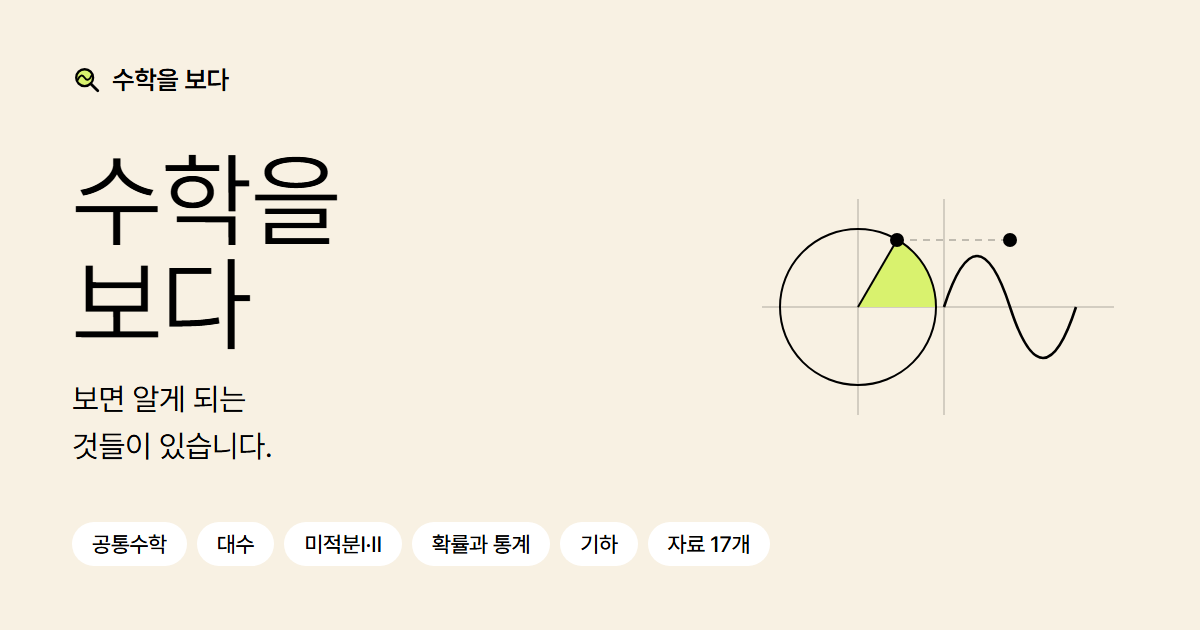
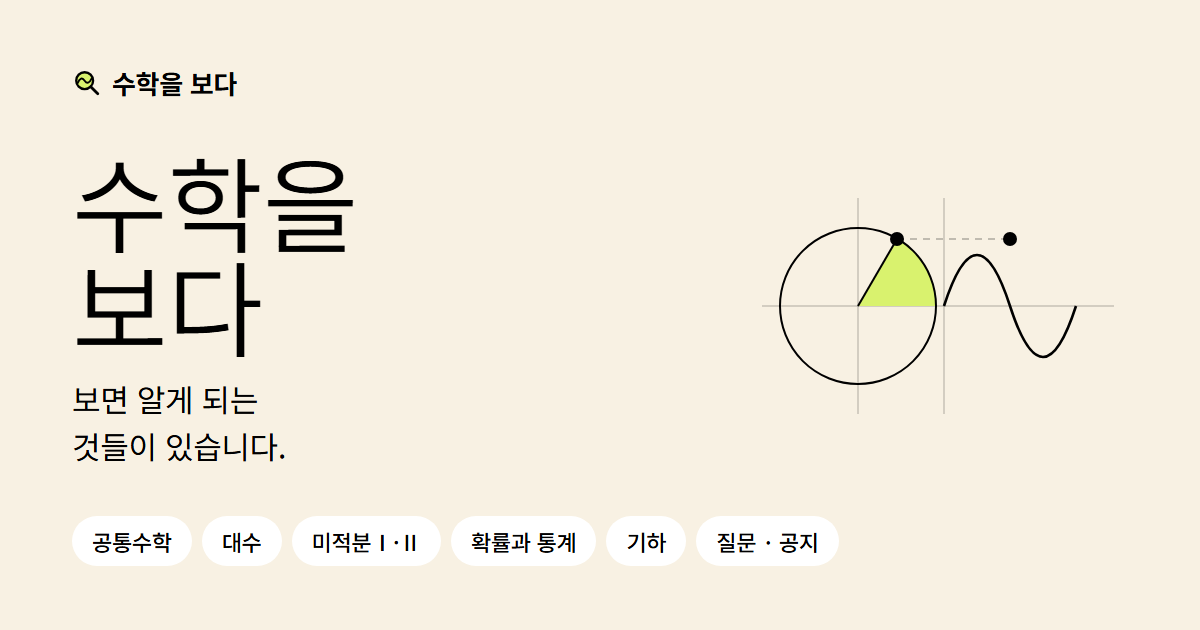
자료 개수를 손으로 적지 않고 세어서 쓰게 함
'자료 17개' 가 네 곳에 박혀 있었는데 실제로는 23개였다. 카톡으로 링크를
보내면 미리보기에 17개라고 떴다.

미리보기·검색 글귀(meta)와 og.png 는 원본을 그대로 읽어 가거나 그림으로
구워지는 것이라 자바스크립트로 못 고친다. 자료를 늘릴 때마다 손으로
고쳐야 하는 구조라 결국 또 어긋난다 — 그래서 숫자를 아예 뺐다.

대신 개수가 실제로 쓸모 있는 자리('직접 보는 수학' 페이지)에 DEMOS 를
세어 '모두 23개' 로 띄운다. 이제 자료를 늘리면 저절로 따라 바뀐다.

og.png 도 다시 구웠다 (마지막 딱지: '자료 17개' → '질문 · 공지').

diff --git a/library.html b/library.html
@@ -7,13 +7,16 @@
      검게 바뀌는 깜빡임이 없습니다. 자세한 건 assets/theme.js 참고 -->
 <script src="assets/theme.js"></script>
 <title>직접 보는 수학 · 수학을 보다</title>
-<meta name="description" content="고1부터 고3까지, 2022 개정 교육과정 과목 순서로 정리한 인터랙티브 수학 자료 17개." />
+<!-- '자료 N개' 같은 숫자는 쓰지 않습니다 — 검색·미리보기 글귀는 원본 HTML 을
+     그대로 읽어 가므로 자바스크립트로 못 고치고, 자료를 늘릴 때마다 손으로
+     고쳐야 해서 결국 틀린 숫자가 남습니다. 실제 개수는 아래 화면에서 셉니다. -->
+<meta name="description" content="고1부터 고3까지, 2022 개정 교육과정 과목 순서로 정리한 인터랙티브 수학 자료." />
 
 <!-- 카카오톡·문자로 이 페이지 링크를 직접 공유할 때 보이는 미리보기 -->
 <meta property="og:type" content="website" />
 <meta property="og:url" content="https://guns-math.vercel.app/library.html" />
 <meta property="og:title" content="직접 보는 수학 · 수학을 보다" />
-<meta property="og:description" content="화면에서 각도를 바꾸고 시점을 돌려 보는 수학 자료 17개. 2022 개정 교육과정 과목 순서로 정리했습니다." />
+<meta property="og:description" content="화면에서 각도를 바꾸고 시점을 돌려 보는 수학 자료. 2022 개정 교육과정 과목 순서로 정리했습니다." />
 <meta property="og:locale" content="ko_KR" />
 <meta property="og:image" content="https://guns-math.vercel.app/assets/og.png" />
 <meta property="og:image:width" content="1200" />
@@ -75,6 +78,9 @@
           화면에서 각도를 바꾸고 시점을 돌려 보는 자료입니다. 2022 개정 교육과정 과목 순서로
           정리했고, 개념 이름이나 과목 이름(예: 미적분Ⅱ)으로 검색할 수 있습니다.
         </p>
+        <!-- 개수는 자료 목록을 세어서 씁니다 — 손으로 적어 두면 자료를 늘릴 때마다
+             고쳐야 하고, 결국 틀린 숫자가 남기 때문입니다 -->
+        <p class="caption" id="총개수"></p>
       </div>
     </div>
 
@@ -117,6 +123,11 @@
 const grid = document.getElementById("grid");
 const subjectNav = document.getElementById("subjectNav");
 let query = "";
+
+/* 자료가 모두 몇 개인지 — 세어서 씁니다.
+   예전에는 이 숫자를 페이지 곳곳에 손으로 적어 두었는데, 자료를 늘려도
+   숫자는 그대로라 실제와 어긋났습니다(17 이라고 적힌 채 23개가 됨). */
+document.getElementById("총개수").textContent = `모두 ${DEMOS.length}개`;
 
 function render() {
   const list = DEMOS.filter(d => {

diff --git a/index.html b/index.html
@@ -14,7 +14,11 @@
 <meta property="og:type" content="website" />
 <meta property="og:url" content="https://guns-math.vercel.app/" />
 <meta property="og:title" content="수학을 보다" />
-<meta property="og:description" content="보면 알게 되는 것들이 있습니다. 고등학교 수학 자료 17개 · 질문 · 공지" />
+<!-- 여기에 '자료 N개' 같은 숫자를 쓰지 않습니다. 미리보기 글귀는 카톡이
+     원본 HTML 을 그대로 읽어 가므로 자바스크립트로 고칠 수 없고, 자료를
+     늘릴 때마다 손으로 고쳐야 해서 결국 틀린 숫자가 남습니다.
+     (실제 개수는 '직접 보는 수학' 페이지에서 그때그때 세어 보여 줍니다) -->
+<meta property="og:description" content="보면 알게 되는 것들이 있습니다. 고등학교 수학 자료 · 질문 · 공지" />
 <meta property="og:locale" content="ko_KR" />
 <meta property="og:image" content="https://guns-math.vercel.app/assets/og.png" />
 <meta property="og:image:width" content="1200" />

diff --git a/assets/og-source.html b/assets/og-source.html
@@ -56,7 +56,9 @@
 
   <div class="bot">
     <span class="chip">공통수학</span><span class="chip">대수</span><span class="chip">미적분Ⅰ·Ⅱ</span>
-    <span class="chip">확률과 통계</span><span class="chip">기하</span><span class="chip">자료 17개</span>
+    <!-- 여기에 '자료 N개' 를 넣지 않습니다. 이 글자는 그림(og.png)으로 구워지기
+         때문에, 자료를 늘리면 그림을 다시 만들기 전까지 틀린 숫자가 남습니다. -->
+    <span class="chip">확률과 통계</span><span class="chip">기하</span><span class="chip">질문 · 공지</span>
   </div>
 </body>
 </html>
